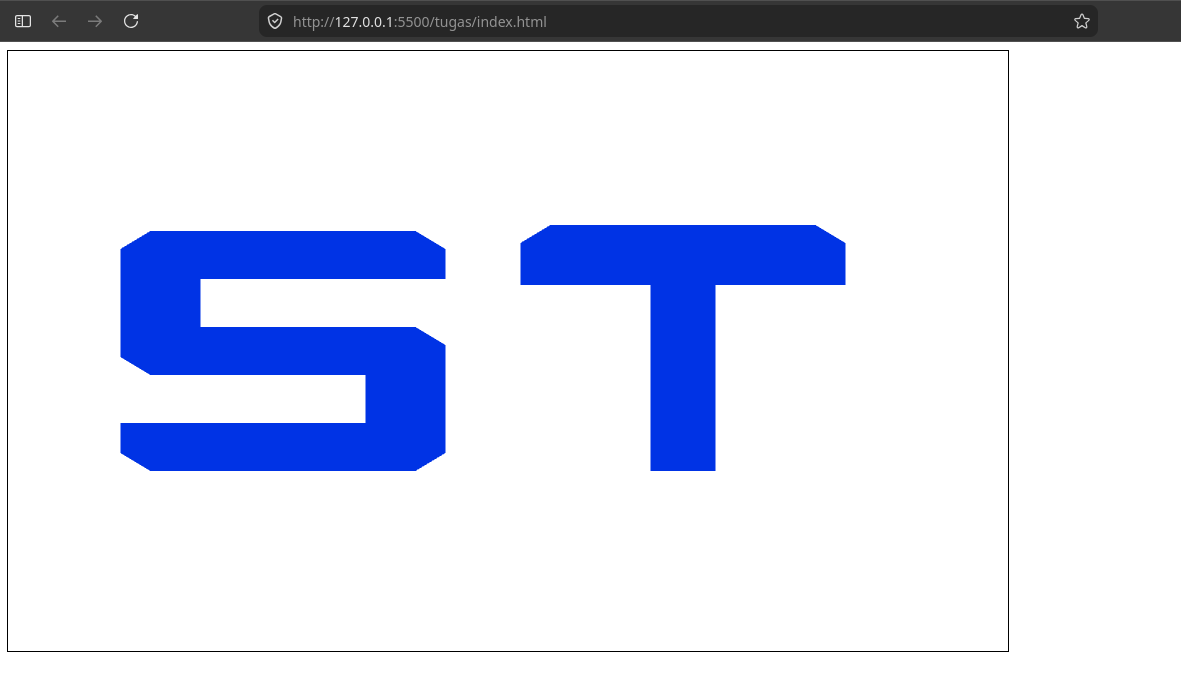
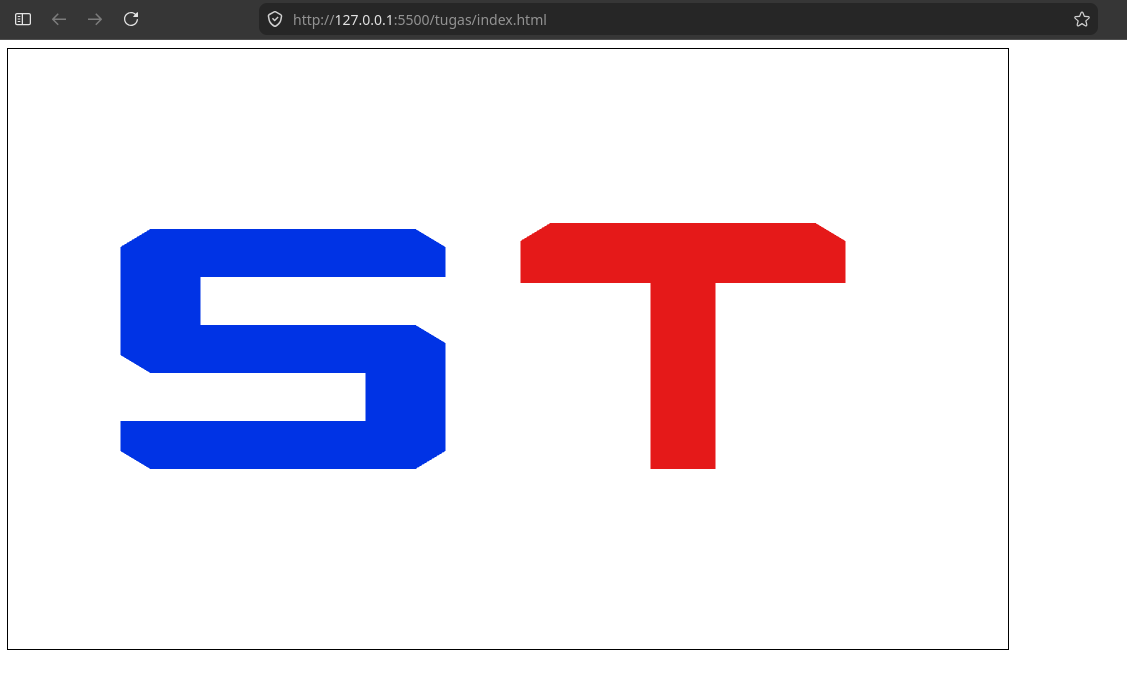
feat(tugas W03): change the color of the T shape

diff --git a/W03/tugas/main.js b/W03/tugas/main.js
@@ -159,7 +159,10 @@ function main() {
         verticesT
     );
 
-    var dVertexCount = vertices.length / 3;
+    var sVertexCount = verticesS.length / 3;
+    var tVertexCount = verticesT.length / 3;
+
+    // var dVertexCount = vertices.length / 3;
 
     var positionBuffer = gl.createBuffer();
     gl.bindBuffer(gl.ARRAY_BUFFER, positionBuffer);
@@ -209,9 +212,13 @@ function main() {
     gl.clearColor(1.0, 1.0, 1.0, 1.0);
     gl.clear(gl.COLOR_BUFFER_BIT);
 
-    // Huruf "S"
-    gl.uniform4f(uColor, 0.0, 0.2, 0.9, 1.0);
-    gl.drawArrays(gl.TRIANGLES, 0, dVertexCount);
+    // Draw S
+    gl.uniform4f(uColor, 0.0, 0.2, 0.9, 1.0); // Blue
+    gl.drawArrays(gl.TRIANGLES, 0, sVertexCount);
+
+    // Draw T
+    gl.uniform4f(uColor, 0.9, 0.1, 0.1, 1.0); // Red
+    gl.drawArrays(gl.TRIANGLES, sVertexCount,tVertexCount);
 }
-2
+
 window.onload = main;
